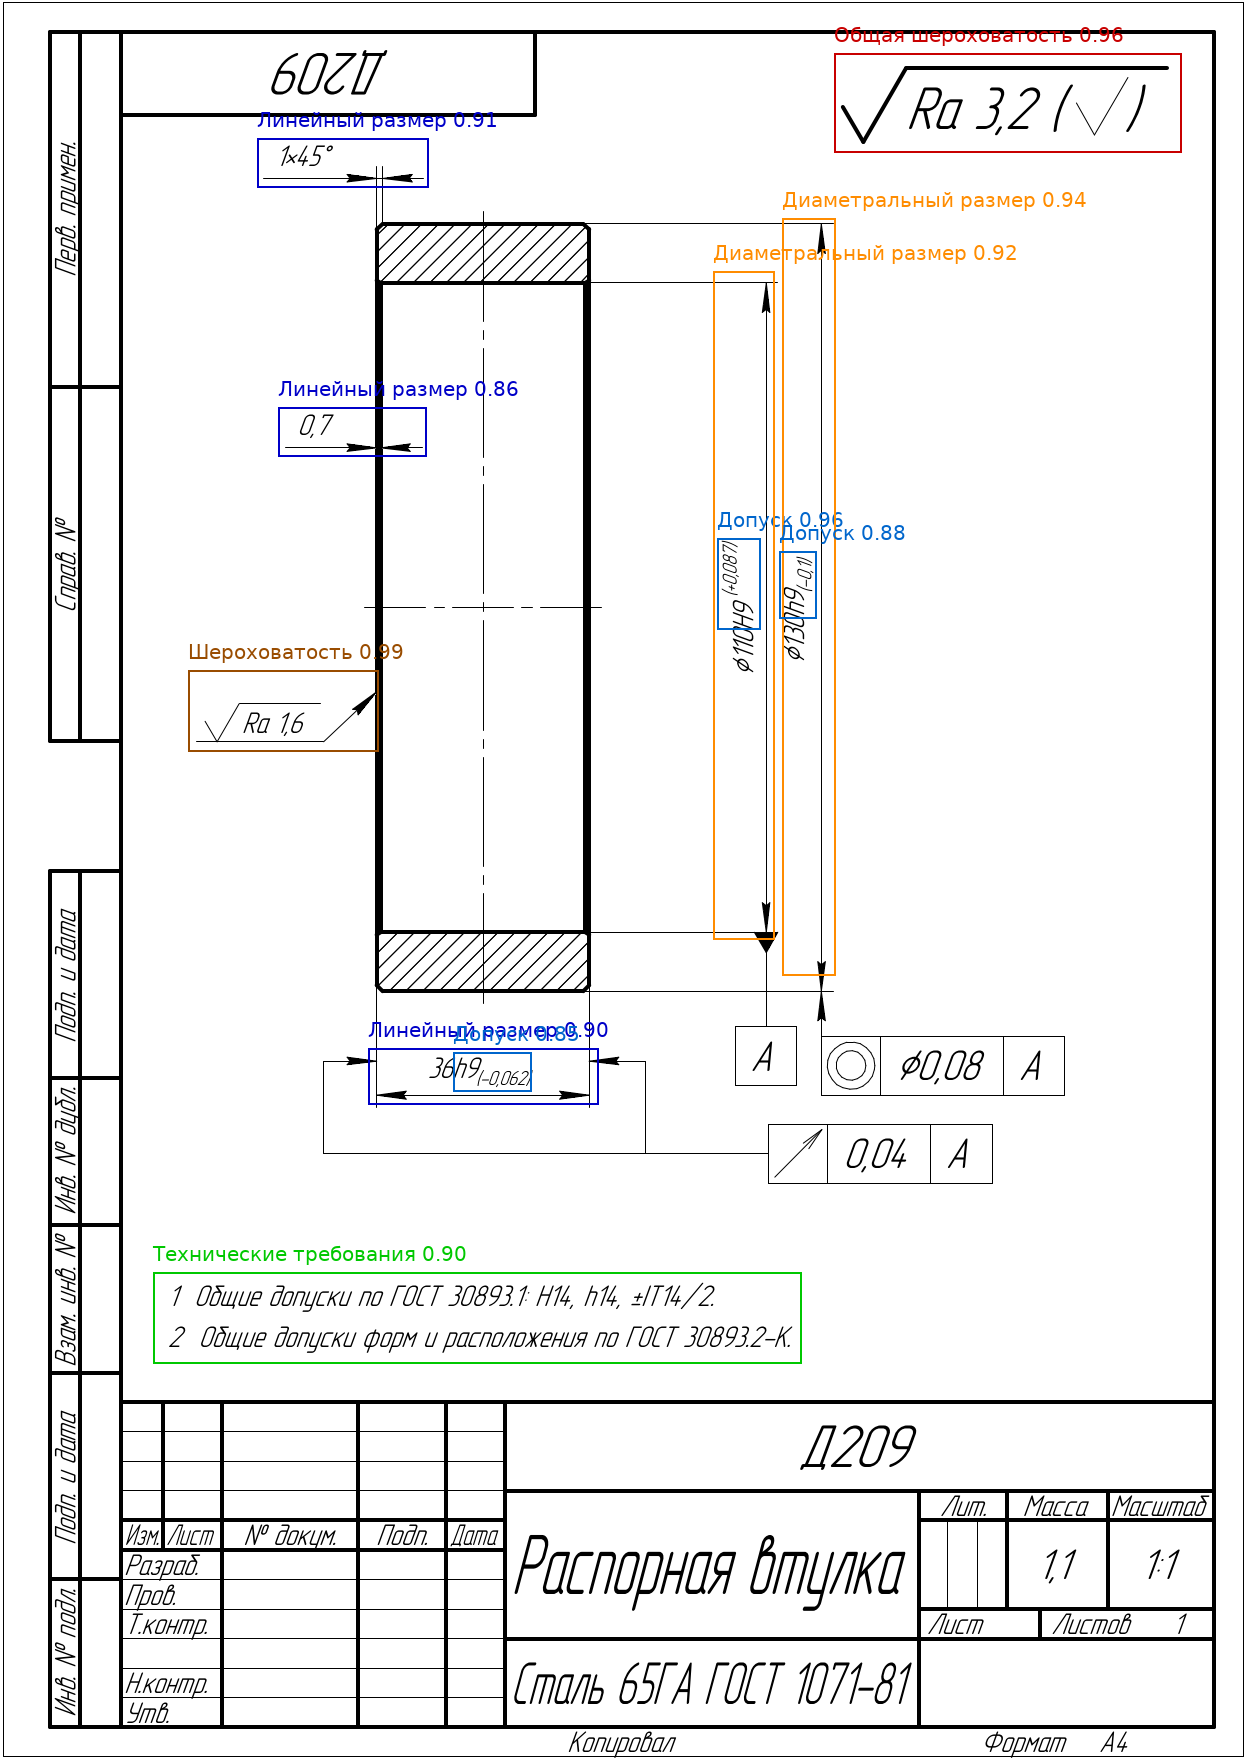
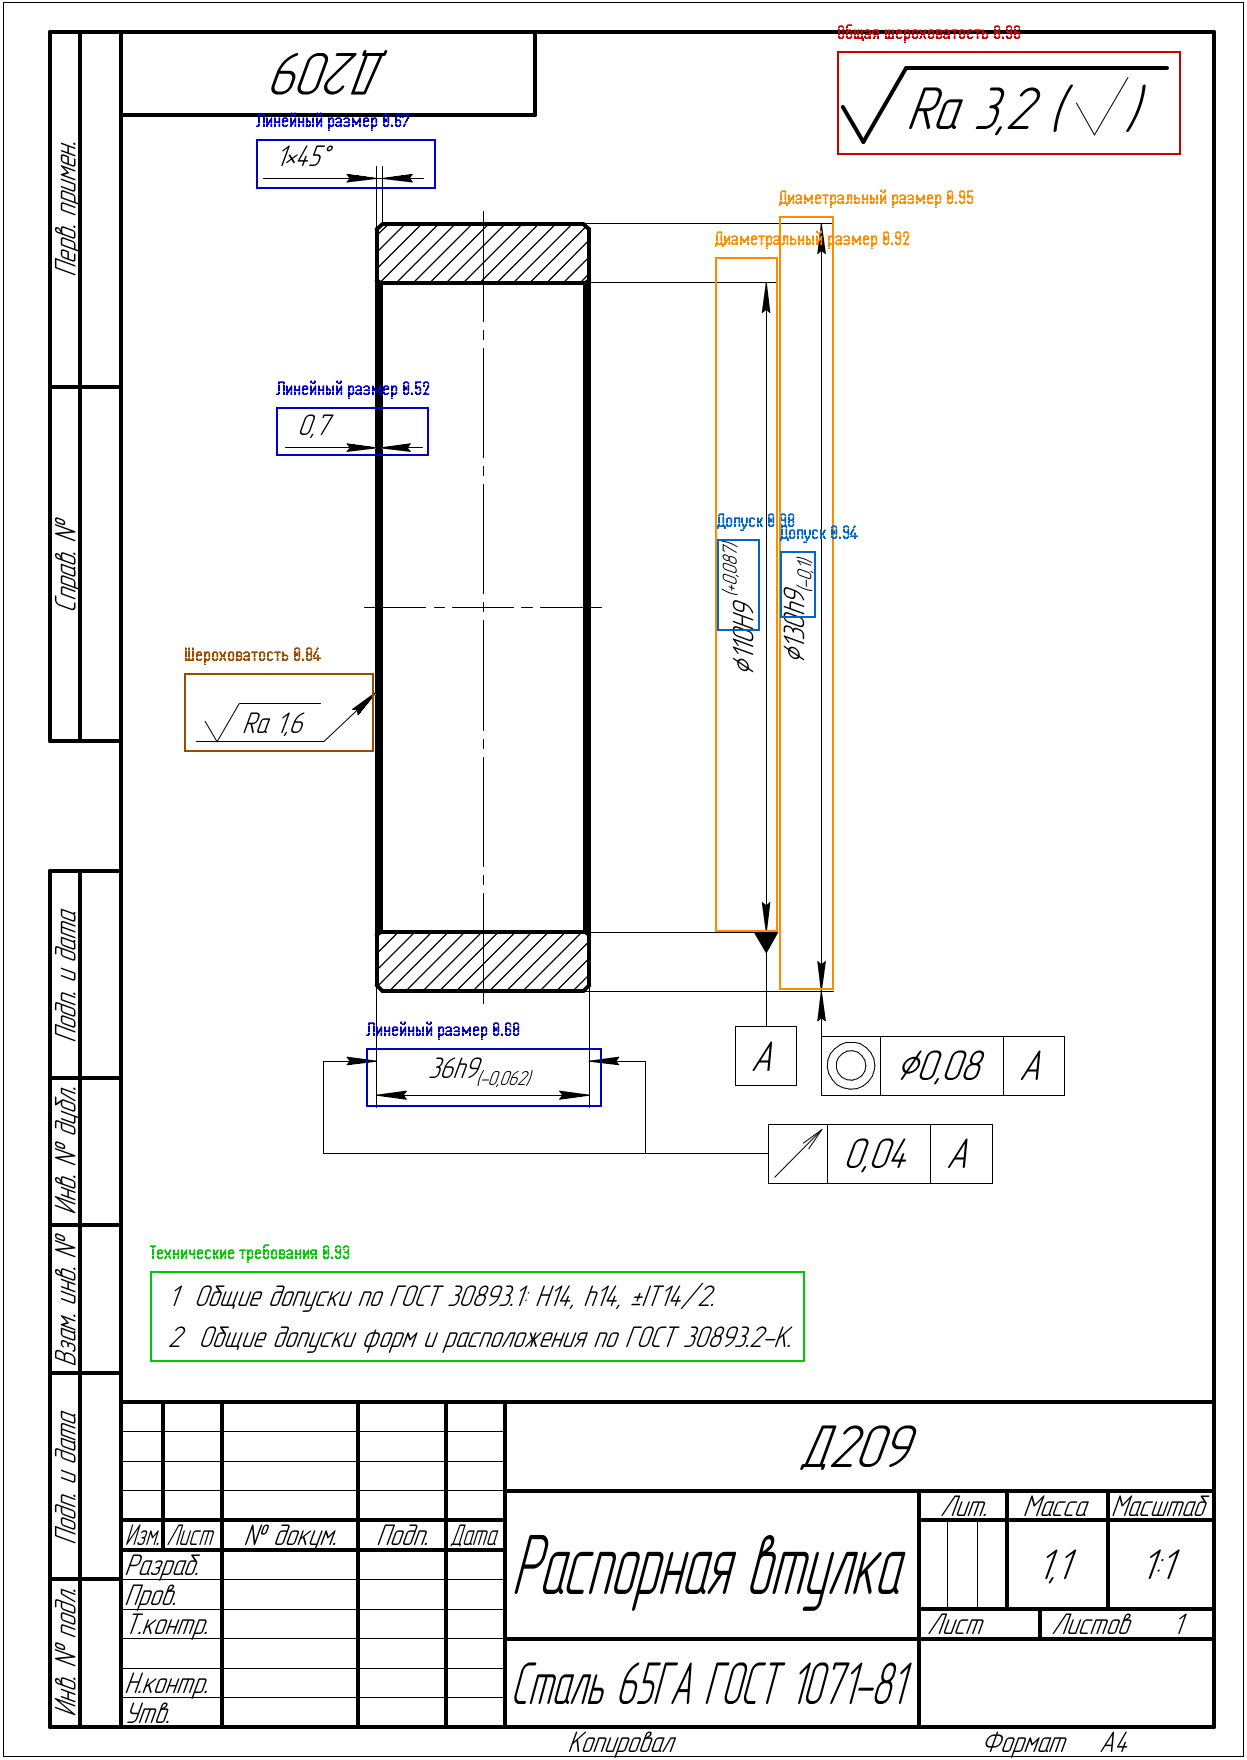
modified:   dataset/data.yaml 	modified:   dataset/labels/train/10.txt 	modified:   dataset/labels/train/11.txt 	modified:   dataset/labels/train/13.txt 	modified:   dataset/labels/train/7.txt 	modified:   dataset/labels/val/10.txt 	modified:   dataset/labels/val/11.txt 	modified:   dataset/labels/v

diff --git a/main.py b/main.py
@@ -20,7 +20,7 @@ console = Console()
 
 # --- Configuration ---
 DEFAULT_DATA_CONFIG = "dataset/data.yaml"
-DEFAULT_MODEL_TO_TRAIN = "runs/train/drawing_detection_run2/weights/best.pt"
+DEFAULT_MODEL_TO_TRAIN = "runs/train/drawing_detection_run/weights/best.pt"
 DEFAULT_EPOCHS = 100
 DEFAULT_PATIENCE = 0
 DEFAULT_WORKERS = 8
@@ -47,7 +47,8 @@ class_mapping = {
     "Угловой размер": 5,
     "Шероховатость": 6,
     "Фаска": 7,
-    "Допуск": 8
+    "Допуск": 8,
+    "Номинальный размер": 9
 }
 
 # Colors for class visualization (bright and contrasting on white background)
@@ -66,13 +67,12 @@ colors = [
     (102, 51, 0),   # Тёмно-коричневый
     (153, 0, 153),  # Глубокий фиолетовый
     (0, 153, 204),  # Ярко-бирюзовый
-    (204, 102, 0),  # Янтарный
-    (76, 76, 76)    # Тёмно-серый
+    (204, 102, 0)  # Янтарный
 ]
 
 # Load font for PIL with Cyrillic support
 try:
-    font_path = "/usr/share/fonts/truetype/dejavu-sans-fonts/DejaVuSans.ttf"
+    font_path = "/usr/share/fonts/Handjet-Regular.ttf"
     font = ImageFont.truetype(font_path, size=20)
 except Exception as e:
     console.print(f"[red]Ошибка загрузки шрифта: {e}[/red]")
@@ -81,7 +81,7 @@ except Exception as e:
 
 # --- Argument Parsing ---
 def parse_args():
-    parser = argparse.ArgumentParser(description="YOLOv8 Application with Rich Interface")
+    parser = argparse.ArgumentParser(description="CAD detect")
     parser.add_argument("--model", type=str, default=DEFAULT_MODEL_TO_TRAIN, help=f"Path to model (.pt or .yaml). Default: {DEFAULT_MODEL_TO_TRAIN}")
     parser.add_argument("--data", type=str, default=DEFAULT_DATA_CONFIG, help=f"Path to dataset config (data.yaml). Default: {DEFAULT_DATA_CONFIG}")
     parser.add_argument("--epochs", type=int, default=DEFAULT_EPOCHS, help=f"Number of training epochs. Default: {DEFAULT_EPOCHS}")
